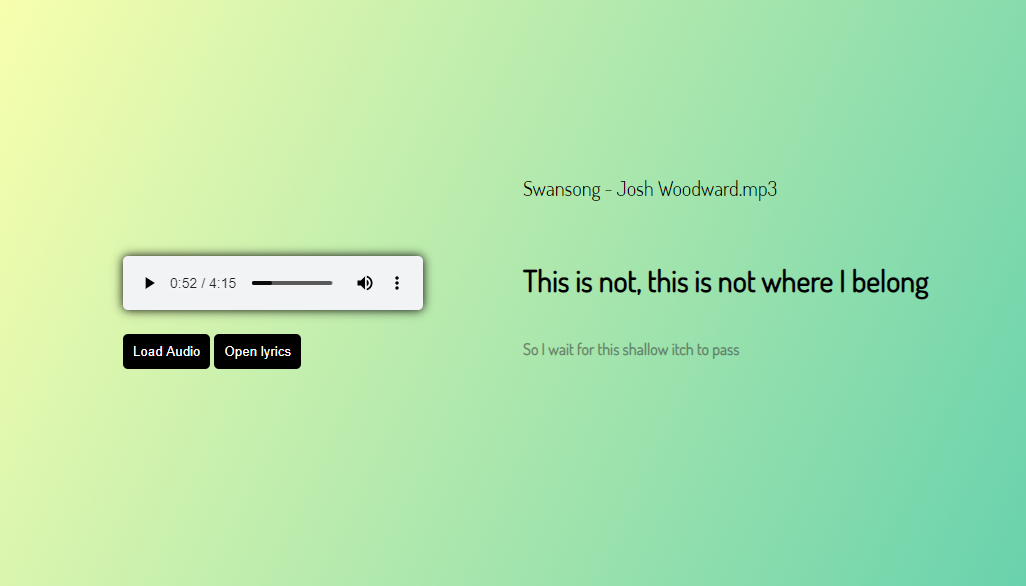
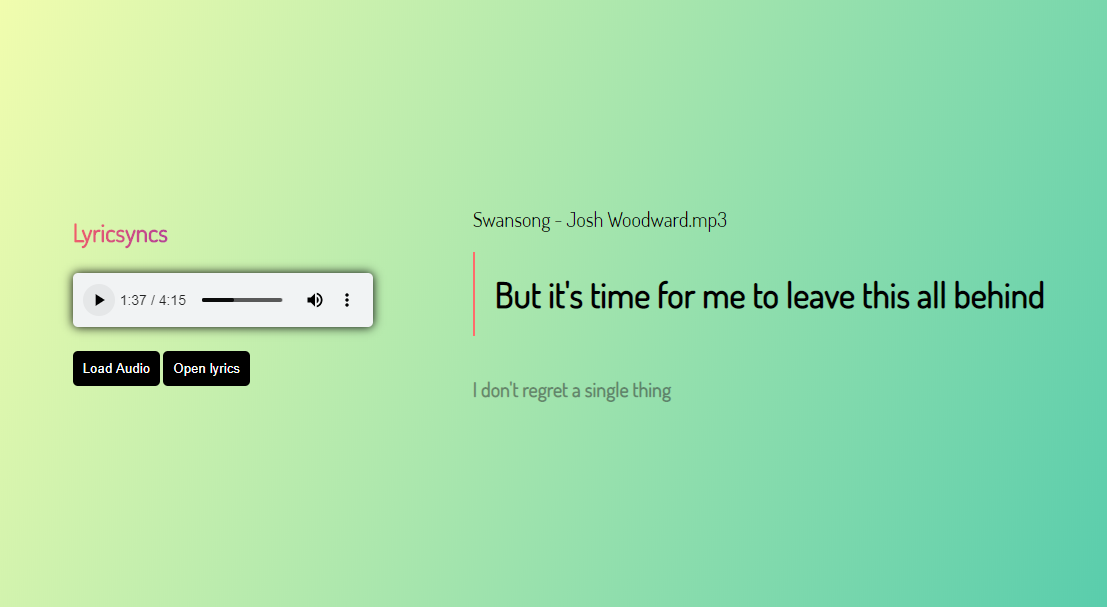
design improvements

Changed region(s): [[0.0624, 0.3686, 0.9669, 0.6451], [0.4055, 0.3072, 0.7797, 0.3993], [0.4366, 0.5836, 0.7173, 0.6758]]

diff --git a/js/viewLyrics.js b/js/viewLyrics.js
@@ -10,7 +10,7 @@ let next_lyrics = document.querySelector('#next_line');
 
 next_lyrics.innerHTML = 'Enjoy the music!'
 
-audio.addEventListener('timeupdate', function () {
+audio.addEventListener('timeupdate', function() {
     playback_time = audio.currentTime;
     // .toString().toTime();
     // document.querySelector('#timestamp').innerHTML = playback_time;
@@ -20,11 +20,11 @@ audio.addEventListener('timeupdate', function () {
 });
 
 
-read_btn.addEventListener('click', function () {
+read_btn.addEventListener('click', function() {
     file_input.click();
 });
 
-file_input.addEventListener('change', function () {
+file_input.addEventListener('change', function() {
     if (file_input.files.length == 0) {
         console.log('Error : No file selected');
         return;
@@ -32,23 +32,23 @@ file_input.addEventListener('change', function () {
     let file = file_input.files[0];
 
     let reader = new FileReader();
-    reader.addEventListener('loadstart', function () {
+    reader.addEventListener('loadstart', function() {
         console.log('Reading Lyrics...');
     });
 
-    reader.addEventListener('load', function (e) {
+    reader.addEventListener('load', function(e) {
         let text = e.target.result;
         lyrics = cleanLyrics(text.split('\n'), "", 12);
-        lyrics.forEach(function(item){
+        lyrics.forEach(function(item) {
             console.log(item)
         })
     });
 
-    reader.addEventListener('error', function () {
+    reader.addEventListener('error', function() {
         console.log('Error : Failed to read file');
     });
 
-    reader.addEventListener('progress', function (e) {
+    reader.addEventListener('progress', function(e) {
         if (e.lengthComputable == true) {
             let percent_read = Math.floor((e.loaded / e.total) * 100);
             console.log(percent_read + '% read');
@@ -59,48 +59,48 @@ file_input.addEventListener('change', function () {
 });
 
 
-String.prototype.toSeconds = function () {
+String.prototype.toSeconds = function() {
     let mmss = this.substring(1, 9);
     let a = mmss.split(':');
     let min_to_sec = parseFloat(a[0] * 60);
     let sec = parseFloat(a[1]);
 
     let seconds = min_to_sec + sec;
-    return seconds.toFixed(2); 
+    return seconds.toFixed(2);
 }
 
 function cleanLyrics(arr, value, range) {
     let i = 0;
     while (i < arr.length) {
-      if (arr[i].length < range || arr[i]==value) {
-        arr.splice(i, 1);
-      } else {
-        const regex = /\[(.*?)\]/g;
-        let match = arr[i].match(regex);
-        let timestamp;
-        if(!match){
-            console.log('unreadable line')
-        }else{
-            timestamp = match[0].toSeconds();
+        if (arr[i].length < range || arr[i] == value) {
+            arr.splice(i, 1);
+        } else {
+            const regex = /\[(.*?)\]/g;
+            let match = arr[i].match(regex);
+            let timestamp;
+            if (!match) {
+                console.log('unreadable line')
+            } else {
+                timestamp = match[0].toSeconds();
+            }
+
+            arr[i] = arr[i].replace(regex, '[' + padEvenly(timestamp) + ']');
+            ++i;
         }
-        
-        arr[i] = arr[i].replace(regex, '[' + padEvenly(timestamp) + ']');
-        ++i;
-      }
     }
     return arr;
-  }
+}
 
-  function displayLyricsAt(playback_time){
+function displayLyricsAt(playback_time) {
     let i = 0;
-    while(i < lyrics.length){
+    while (i < lyrics.length) {
         playback_time = parseFloat(playback_time)
         let lyrics_timestamp = parseFloat(lyrics[i].substring(1, 8));
-        let offset = 0.800;
-        if(playback_time + offset >= lyrics_timestamp){
+        let offset = 0.400;
+        if (playback_time + offset >= lyrics_timestamp) {
 
             current = lyrics[i].substring(8).replace(/\[(.*?)\]/g, '');
-            next = lyrics[i+1].substring(8).replace(/\[(.*?)\]/g, '');
+            next = lyrics[i + 1].substring(8).replace(/\[(.*?)\]/g, '');
 
             current_lyrics.innerHTML = current;
             next_lyrics.innerHTML = next;
@@ -108,14 +108,14 @@ function cleanLyrics(arr, value, range) {
 
         i++;
     }
-  }
+}
 
-  function padEvenly(n) {
-    if(n < 10) {
+function padEvenly(n) {
+    if (n < 10) {
         return '00' + n;
-    }else if(n < 100){
+    } else if (n < 100) {
         return '0' + n;
-    }else{
+    } else {
         return n;
     }
-  }
+}

diff --git a/css/main.css b/css/main.css
@@ -1,5 +1,8 @@
+html,
+body {
+    height: 100%;
+}
 
-html, body { height: 100%; }
 body {
     box-sizing: border-box;
     margin: 0;
@@ -11,91 +14,118 @@ body {
     background: linear-gradient(-65deg, #43C6AC, #F8FFAE);
     -webkit-font-smoothing: antialiased;
     -moz-osx-font-smoothing: grayscale;
+    font-family: 'Dosis', sans-serif;
+    overflow: hidden;
 }
 
-#main-container{
-    padding:20px;
-    border-radius:10px;
+#main-container {
+    padding: 20px;
+    border-radius: 10px;
     max-width: 300px;
     display: grid;
     grid-template-rows: 1fr;
     justify-content: center;
     align-items: center;
     overflow: hidden;
-    
 }
-audio{
+
+#brand {
+    color: black;
+    background: -webkit-linear-gradient(-25deg, #ff5b5bee, #2f00ff);
+    background-clip: text;
+    -webkit-background-clip: text;
+    -webkit-text-fill-color: transparent;
+    display: inline-block;
+    padding: 25px 0px 25px 0px;
+    font-size: 25px;
+    font-weight: bold;
+}
+
+audio {
     border-radius: 5px !important;
-    background-color:#f1f3f4;
-    border:none;
+    background-color: #f1f3f4;
+    border: none;
     box-shadow: 0px 0px 10px black;
 }
-audio:focus, audio:active{
-    border:none !important;
+
+audio:focus,
+audio:active {
+    border: none !important;
     outline: none !important;
 }
 
-button{
-    background-color:black;
+button {
+    background-color: black;
     color: #fff;
-    border:none;
+    border: none;
     border-radius: 5px;
-    padding:10px;
-    margin-top:20px;
+    padding: 10px;
+    margin-top: 20px;
     cursor: pointer;
 }
-button:hover{
+
+button:hover {
     background-color: rgb(19, 88, 71)
 }
 
-#lyrics-wrapper{
-    height:150px;
+#lyrics-wrapper {
+    height: 150px;
 }
-#song_info{
+
+#song_info {
     font-family: 'Dosis', sans-serif;
     white-space: nowrap;
 }
 
-#current_line, #next_line{
+#current_line,
+#next_line {
     font-family: 'Dosis', sans-serif;
     /* font-style: italic; */
     /* font-family: 'Playfair Display', serif; */
 }
-#current_line{
-    margin-top:40px;
-    margin-bottom:40px;
-    transition: .2s ePlayfair Displayase;
-    font-size:25px;
+
+#current_line {
+    border-left: 2px solid #ff6b6b;
+    padding: 20px;
+    margin-top: 40px;
+    margin-bottom: 40px;
+    transition: .2s;
+    font-size: 25px;
 }
-#next_line{
-    /* margin-top: 10px !important; */
+
+#next_line {
     font-weight: bold;
+    font-size: 20px;
     color: #2727277e;
 }
 
+
 /* Desktop adjustments */
+
 @media only screen and (min-width: 600px) {
-    #main-container{
+    #main-container {
         grid-template-columns: 1fr 2fr;
         width: 100%;
         max-width: 100%;
         grid-gap: 100px;
-        height:100vh;
+        height: 100vh;
     }
-    #left, #right{
+    #left,
+    #right {
         display: grid;
     }
-    #left{
+    #left {
         justify-content: right;
+        margin-top: -10px
     }
-    #right{
+    #right {
         justify-content: left;
-        margin-top:-100px;
     }
-    #song_info{
+    #song_info {
         font-size: 20px;
     }
-    #current_line{
-        font-size: 30px;
+    #current_line {
+        margin-top: 0;
+        font-size: 35px;
     }
 }

diff --git a/js/loadAudio.js b/js/loadAudio.js
@@ -2,10 +2,10 @@ let audio_input = document.querySelector('#audio_input');
 let load_audio_btn = document.querySelector('#load_audio');
 let audio_source = document.querySelector('#audio_source');
 
-load_audio_btn.addEventListener('click', function(){
+load_audio_btn.addEventListener('click', function() {
     audio_input.click();
 })
-document.querySelector('#audio_input').addEventListener('change', function(){
+document.querySelector('#audio_input').addEventListener('change', function() {
 
     if (audio_input.files.length == 0) {
         console.log('Error : Audio file not selected');
@@ -14,22 +14,22 @@ document.querySelector('#audio_input').addEventListener('change', function(){
     let file = audio_input.files[0];
 
     let reader = new FileReader();
-    reader.addEventListener('loadstart', function () {
+    reader.addEventListener('loadstart', function() {
         console.log('Loading Audio');
     });
 
-    reader.addEventListener('load', function (e) {
+    reader.addEventListener('load', function(e) {
         audio.setAttribute('controls', true);
         document.getElementById('song_info').innerHTML = audio_input.files[0].name;
         let audio_src = e.target.result;
         audio.setAttribute('src', audio_src);
     });
 
-    reader.addEventListener('error', function () {
+    reader.addEventListener('error', function() {
         console.log('Error : Failed to load file');
     });
 
-    reader.addEventListener('progress', function (e) {
+    reader.addEventListener('progress', function(e) {
         if (e.lengthComputable == true) {
             let percent_read = Math.floor((e.loaded / e.total) * 100);
             console.log(percent_read + '% Audio loaded');
@@ -37,8 +37,8 @@ document.querySelector('#audio_input').addEventListener('change', function(){
     });
 
     reader.readAsDataURL(file);
- 
-    
- 
-    
+
+
+
+
 })

diff --git a/index.html b/index.html
@@ -6,13 +6,15 @@
     <meta name="viewport" content="width=device-width, initial-scale=1.0">
     <title>Lyricsyncs</title>
     <link rel="stylesheet" href="css/main.css">
-    <link href="https://fonts.googleapis.com/css2?family=Dosis&family=Playfair+Display:ital,wght@1,500&display=swap"
-        rel="stylesheet">
+    <link href="https://fonts.googleapis.com/css2?family=Dosis&family=Playfair+Display:ital,wght@1,500&display=swap" rel="stylesheet">
 </head>
 
 <body>
     <div id="main-container">
         <div id="left">
+
+            <span id="brand">Lyricsyncs</span>
+
             <div id="audio-wrapper">
                 <audio id="audio" crossorigin preload="none" controls>
                     <source id="audio_source" type="audio/mpeg">
@@ -23,13 +25,12 @@
                 <button id="read_btn">Open lyrics</button>
             </div>
 
-            <input type="file" accept=".mp3, .ogg, .m4a, .aac, .wav" name="audio" id="audio_input"
-                style="display : none">
+            <input type="file" accept=".mp3, .ogg, .m4a, .aac, .wav" name="audio" id="audio_input" style="display : none">
             <input type="file" accept=".lrc" id="lrc_file" style="display : none">
 
         </div>
         <div id="right">
-            <p id="song_info"></p>
+            <p id="song_info">I am ready to play for you...</p>
 
             <div id="lyrics-wrapper">
                 <h2 id="current_line">Lyrics will be displayed here</h2>
